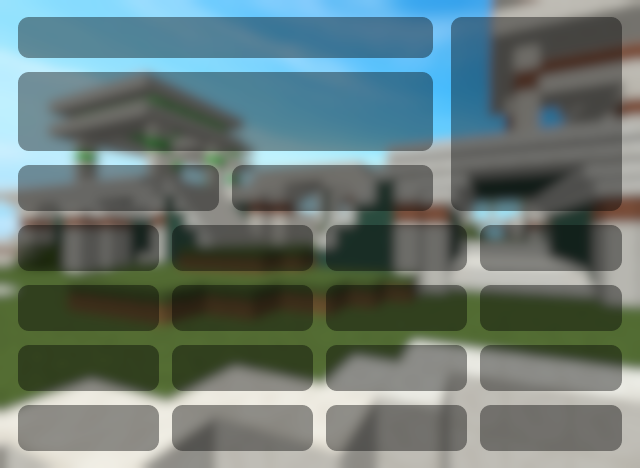
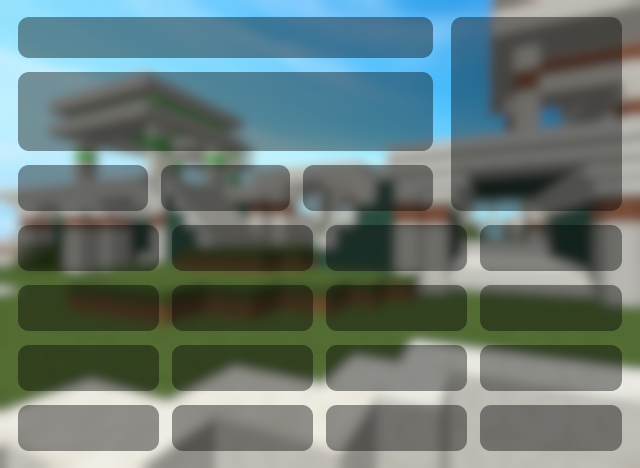
Added win rate to averages and swapped rates and top modes

Changed region(s): [[0.4375, 0.3291, 0.5, 0.4487], [0.3125, 0.3291, 0.375, 0.4487], [0.2188, 0.3291, 0.2812, 0.4487]]

diff --git a/bot/render/average.py b/bot/render/average.py
@@ -48,6 +48,7 @@ def render_average(
 
 
     clutch_rate = ratios.get_clutch_rate()
+    win_rate = ratios.get_win_rate()
     loss_rate = ratios.get_loss_rate()
 
     most_wins = ratios.get_most_wins()
@@ -74,18 +75,20 @@ def render_average(
         {'position': (242, 369), 'text': f'&c{beds_lost_per_star}'},
         {'position': (242, 429), 'text': f'&c{deaths_per_star}'},
 
-        {'position': (396, 249), 'text': f'&a{clutch_rate}'},
+        {'position': (396, 249), 'text': f'&a{most_wins}'},
         {'position': (396, 309), 'text': f'&a{final_kills_per_game}'},
         {'position': (396, 369), 'text': f'&a{beds_broken_per_game}'},
         {'position': (396, 429), 'text': f'&a{kills_per_game}'},
 
-        {'position': (551, 249), 'text': f'&c{loss_rate}'},
+        {'position': (551, 249), 'text': f'&c{most_losses}'},
         {'position': (551, 309), 'text': f'&c{games_per_final_death}'},
         {'position': (551, 369), 'text': f'&c{games_per_bed_lost}'},
         {'position': (551, 429), 'text': f'&c{deaths_per_game}'},
 
-        {'position': (118, 189), 'text': f'&a{most_wins}'},
-        {'position': (332, 189), 'text': f'&c{most_losses}'},
+        {'position': (83, 189), 'text': f'&a{clutch_rate}'},
+        {'position': (225, 189), 'text': f'&a{win_rate}'},
+        {'position': (368, 189), 'text': f'&c{loss_rate}'},
+
         {'position': (536, 46), 'text': f'&f({mode.title()})'}
     ]
 

diff --git a/bot/calc/average.py b/bot/calc/average.py
@@ -85,13 +85,23 @@ class Ratios:
         losses = self.hypixel_data_bedwars.get(f'{self.mode}losses_bedwars', 0)
         beds_lost = self.hypixel_data_bedwars.get(f'{self.mode}beds_lost_bedwars', 0)
         clutches = beds_lost - losses
-        return '0%' if clutches <= 0 or beds_lost <= 0 else f"{round((clutches / beds_lost) * 100, 2)}%"
+
+        clutch_rate = round((clutches / (beds_lost or -1)) * 100, 2)
+        return f"{max(clutch_rate, 0)}%"
+
+
+    def get_win_rate(self):
+        wins = self.hypixel_data_bedwars.get(f'{self.mode}wins_bedwars', 0)
+
+        win_rate = round((wins / (self.games_played or -1)) * 100, 2)
+        return f'{max(win_rate, 0)}%'
 
 
     def get_loss_rate(self):
         losses = self.hypixel_data_bedwars.get(f'{self.mode}losses_bedwars', 0)
-        return "0%" if self.games_played == 0 else "100%"\
-                    if losses == 0 else f'{round((losses / self.games_played) * 100, 2)}%'
+
+        loss_rate = round((losses / (self.games_played or -1)) * 100, 2)
+        return f'{max(loss_rate, 0)}%'
 
 
     def get_most_wins(self):
